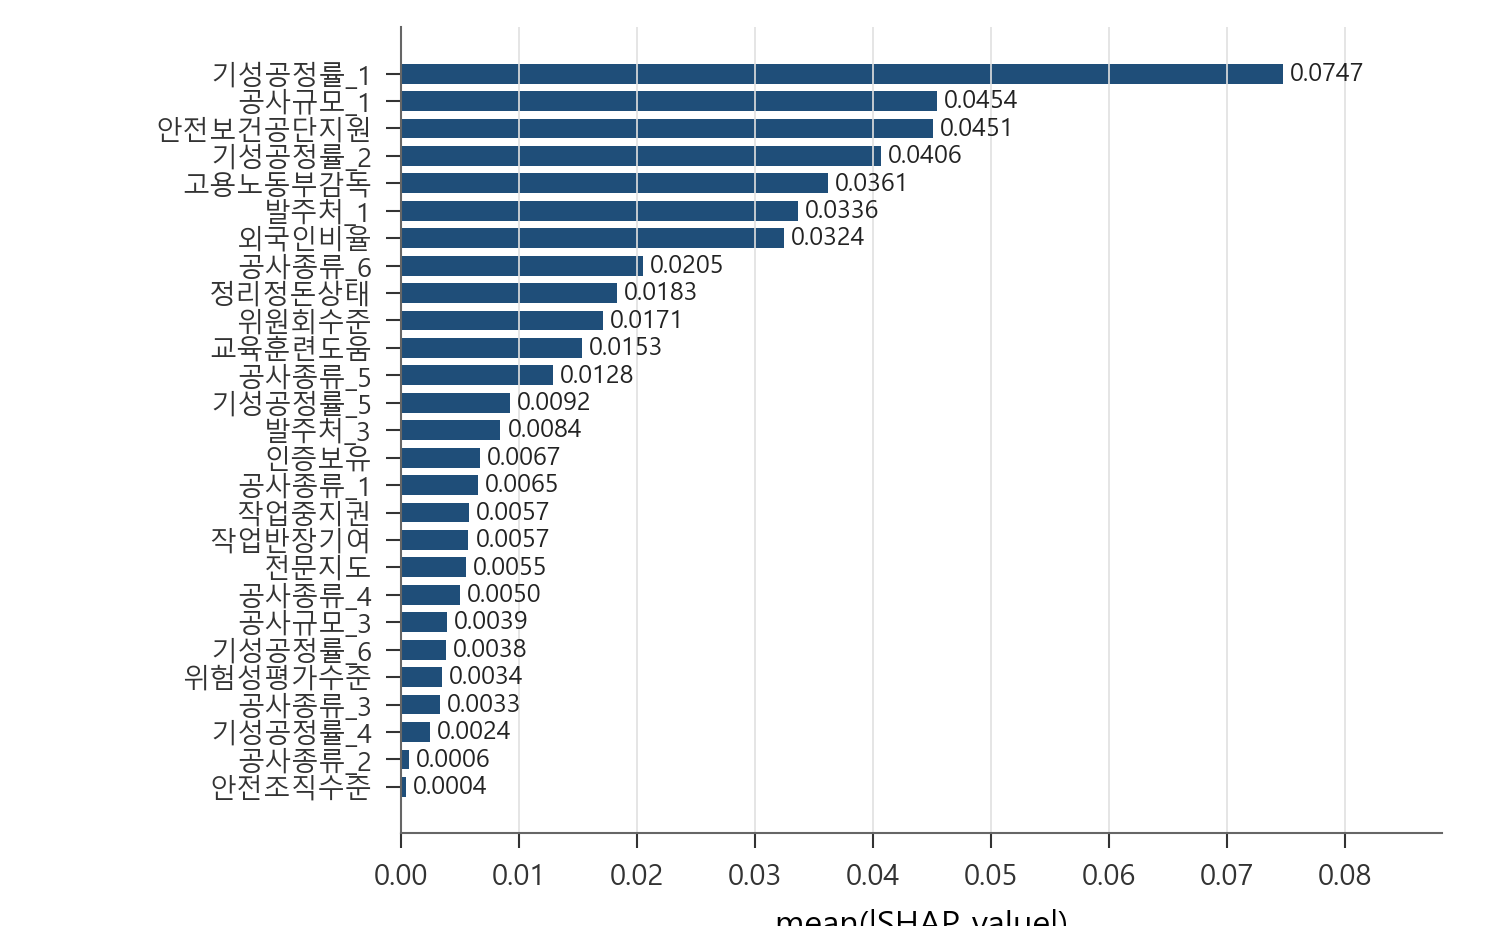
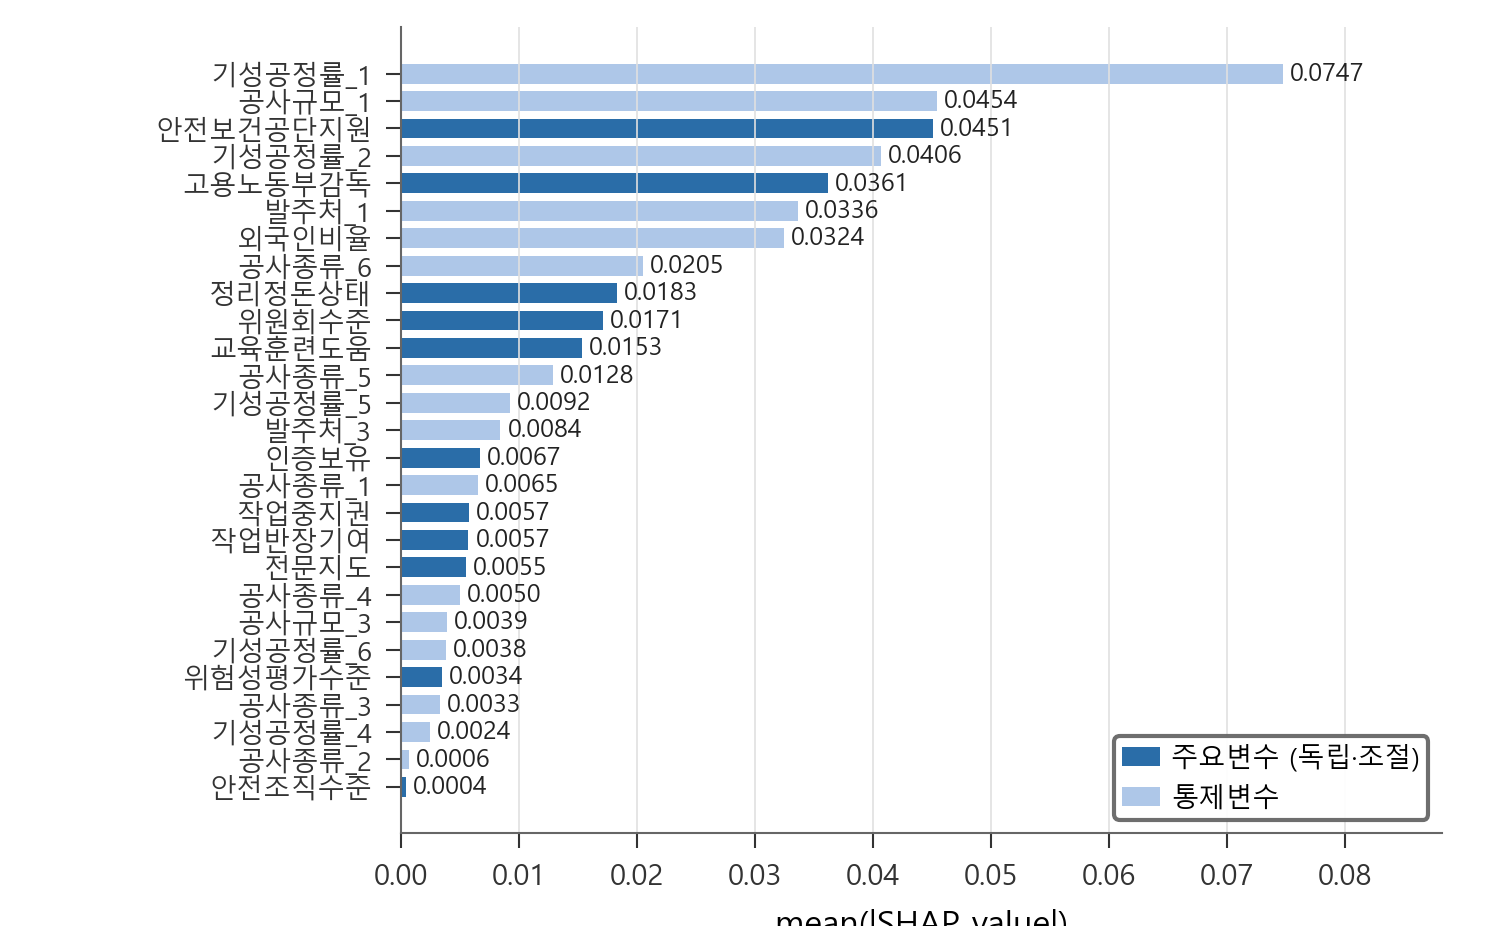
13·12 색 보정: 파랑 2단(주요·통제) + dependence 양/음 색 복원

Changed region(s): [[0.2476, 0.0605, 0.8668, 0.8164], [0.7429, 0.7862, 0.9596, 0.9071]]

diff --git a/src/paper_figures.py b/src/paper_figures.py
@@ -147,16 +147,24 @@ report_dims(OUT / '11_roc_curves.png')
 
 
 # ============ 그림 7.2 — SHAP Bar 전체 27변수 (125.85 × 78.46 mm) ============
+# 파랑톤 2단 분리: 주요변수(독립A·B·조절 11) 진한 파랑, 통제(16) 옅은 파랑
+COLOR_FOCUS    = '#2A6DA8'   # 진한 파랑 (SHAP summary plot 톤)
+COLOR_CTRL_LT  = '#AEC7E8'   # 옅은 파랑
+
+focus_set = set(VARS_A + VARS_B + VARS_MOD)
+
 mean_abs = np.abs(shap_values).mean(axis=0)
 bar_df = pd.DataFrame({'변수': FEATURE_COLS, 'mean|SHAP|': mean_abs})
+bar_df['is_focus'] = bar_df['변수'].isin(focus_set)
 bar_df = bar_df.sort_values('mean|SHAP|', ascending=True).reset_index(drop=True)
+bar_colors = [COLOR_FOCUS if f else COLOR_CTRL_LT for f in bar_df['is_focus']]
 
 W = 125.85 / 25.4; H = 78.46 / 25.4
 fig = plt.figure(figsize=(W, H))
 gs = GridSpec(1, 1, left=0.27, right=0.97, top=0.97, bottom=0.10, figure=fig)
 ax = fig.add_subplot(gs[0])
 ax.barh(np.arange(len(bar_df)), bar_df['mean|SHAP|'],
-        color='#1F4E79', edgecolor='none', height=0.72)
+        color=bar_colors, edgecolor='none', height=0.72)
 
 xmax = bar_df['mean|SHAP|'].max()
 for i, val in enumerate(bar_df['mean|SHAP|']):
@@ -170,6 +178,14 @@ ax.set_xlim(0, xmax * 1.18)
 ax.spines['top'].set_visible(False)
 ax.spines['right'].set_visible(False)
 ax.grid(axis='x', alpha=1.0, color='#E0E0E0', linewidth=0.4)
+
+handles = [
+    Patch(facecolor=COLOR_FOCUS,   edgecolor='none', label='주요변수 (독립·조절)'),
+    Patch(facecolor=COLOR_CTRL_LT, edgecolor='none', label='통제변수'),
+]
+ax.legend(handles=handles, loc='lower right', frameon=True, framealpha=0.95,
+          edgecolor='#666666', fontsize=6.5,
+          handlelength=1.4, handletextpad=0.4, borderpad=0.3)
 
 fig.set_size_inches(W, H, forward=True)
 fig.savefig(OUT / '13_shap_bar.png', dpi=300, bbox_inches=None, pad_inches=0)
@@ -187,9 +203,11 @@ W = 107.39 / 25.4; H = 45.02 / 25.4
 fig = plt.figure(figsize=(W, H))
 ax = fig.add_axes([0.12, 0.26, 0.85, 0.69])
 
+# 양/음 색 분리 (SHAP summary plot 톤)
 rng = np.random.RandomState(42)
 xj = xv + rng.uniform(-0.10, 0.10, size=len(xv))
-ax.scatter(xj, yv, s=8, alpha=0.5, c='#1F4E79', edgecolors='none')
+colors = np.where(yv > 0, '#D62728', '#2A6DA8')   # 양수 빨강, 음수 진한 파랑
+ax.scatter(xj, yv, s=8, alpha=0.55, c=colors, edgecolors='none')
 
 ax.axhline(0, color='#888888', linestyle='--', linewidth=0.6)
 ax.axvline(3, color='#888888', linestyle='--', linewidth=0.6)